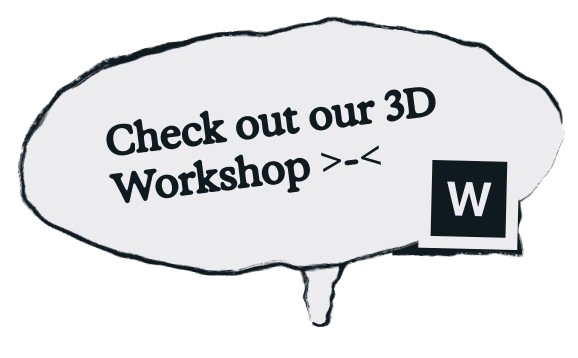
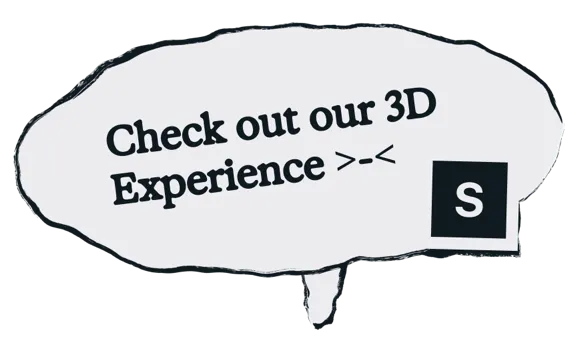
update navbar and keyboard shortcut for "studio" link

diff --git a/src/lib/ui/Navbar.svelte b/src/lib/ui/Navbar.svelte
@@ -10,7 +10,7 @@
 
     const mainNav = [
         { key: 'I', label: 'INFO', href: '/info' },
-        { key: 'W', label: 'THE STUDIO', href: 'https://studio.stormhacks.com/' },
+        { key: 'S', label: 'THE STUDIO', href: 'https://studio.stormhacks.com/' },
         { key: 'F', label: 'FAQ', href: '/faq' },
         { key: 'C', label: 'CREDITS', href: '/credits' },
         { key: 'W', label: 'WEBTOON', href: 'https://www.webtoons.com/en/canvas/shades-of-time/list?title_no=1169505', external: true }

diff --git a/src/lib/components/LandingUI.svelte b/src/lib/components/LandingUI.svelte
@@ -38,7 +38,7 @@
                 case 'i':
                     goto('/info');
                     break;
-                case 'w':
+                case 's':
                     window.location.href = 'https://studio.stormhacks.com/';
                     break;
                 case 'f':
